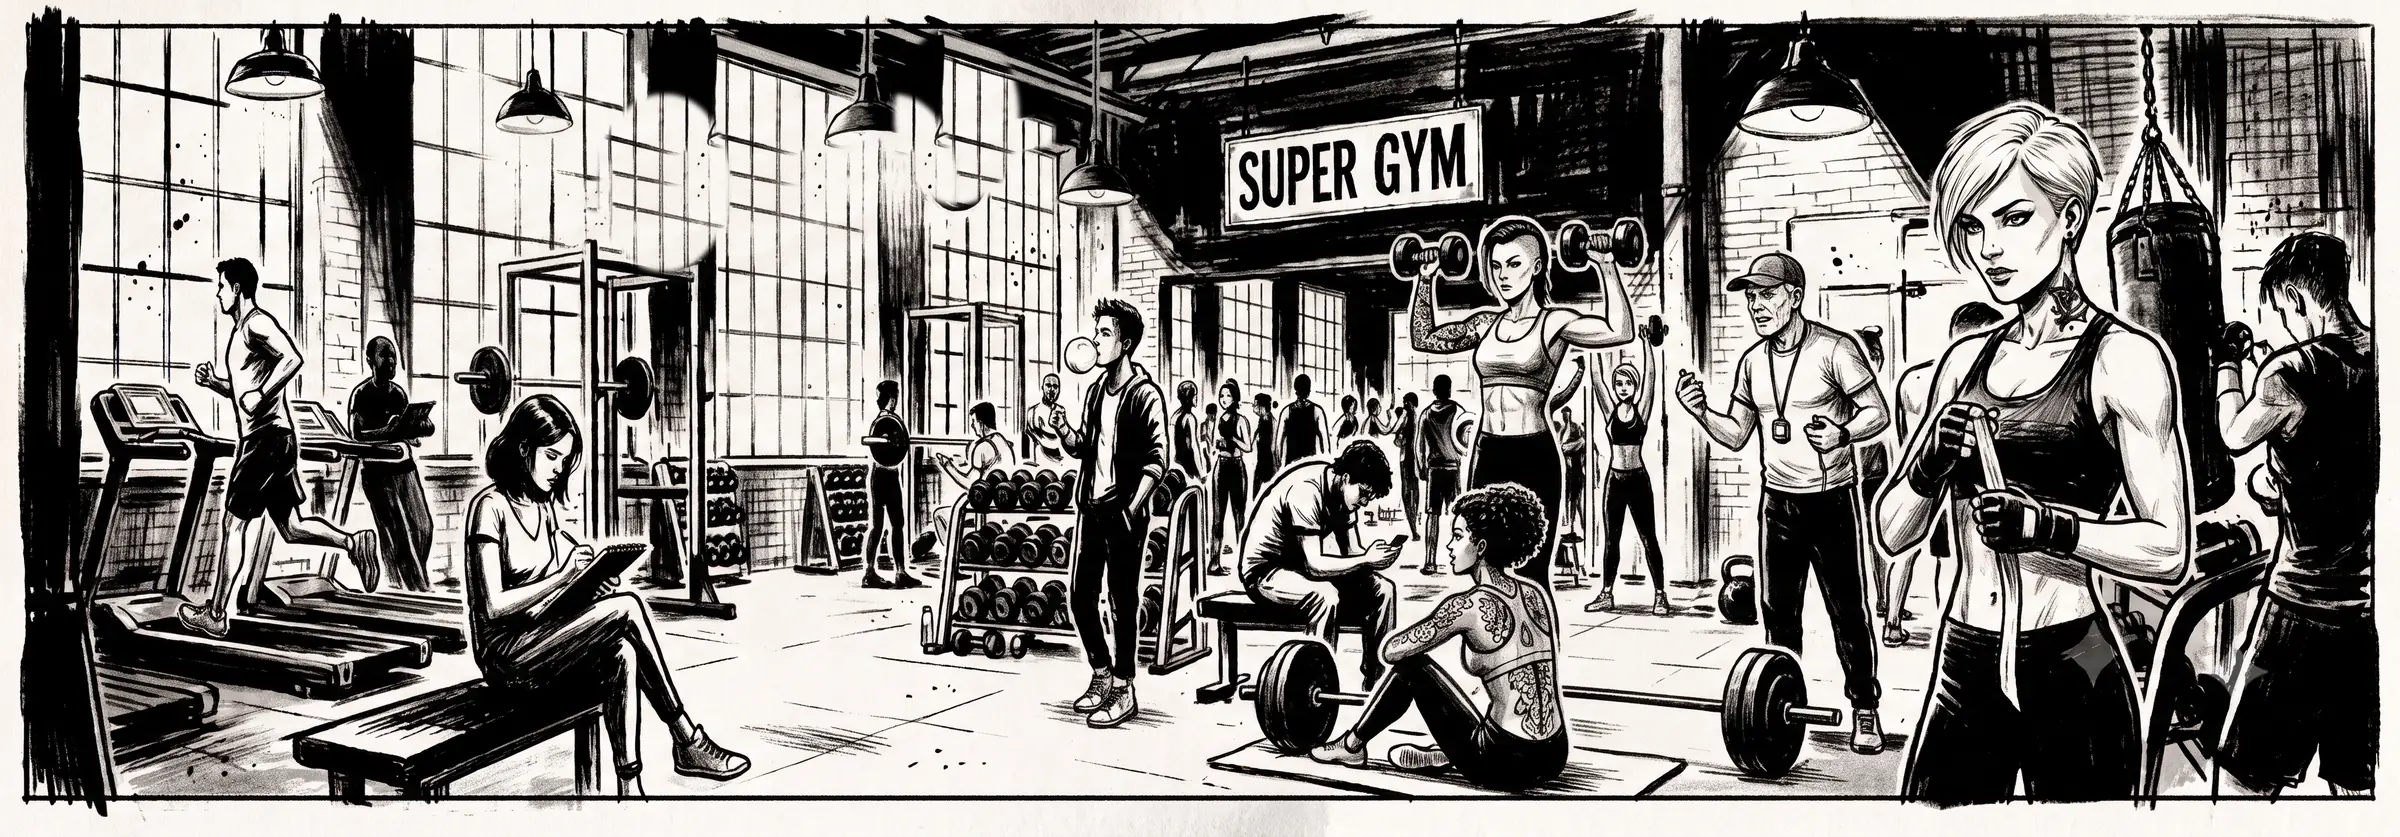
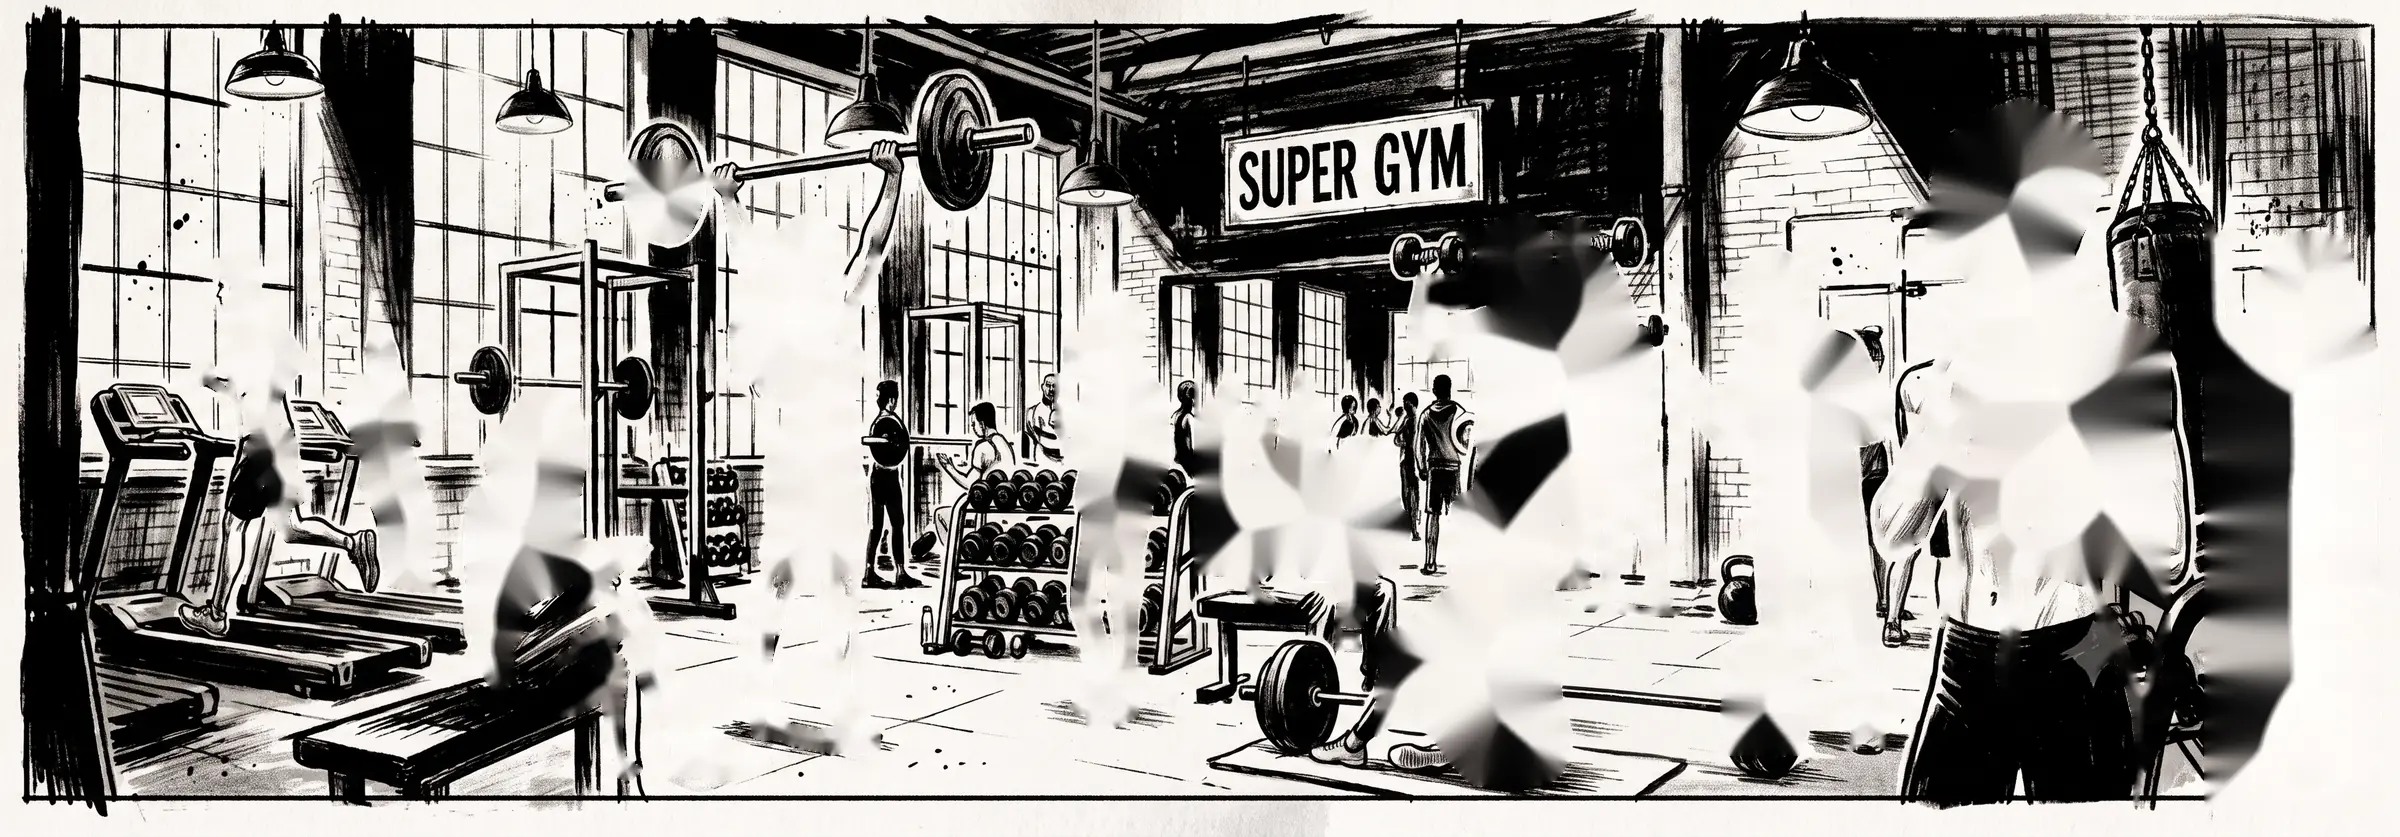
feat(dashboard): cảnh gym motion comic, 13 nhân vật cử động riêng; bỏ hạt bụi
- Tách từng nhân vật trong tranh gym thành lớp riêng (rembg) kèm viền nền
  ~10px, vá chỗ trống trên ảnh nền; dùng lại tranh gốc có cô gái váy đỏ nên
  không còn vết vá thanh tạ lơ lửng.
- Mỗi người một cử động trong vòng 8 giây: chạy bộ nhún, nâng tạ (hạ gối rồi
  đẩy), tập vai, đứng đung đưa, cúi xem điện thoại, nói chuyện (HLV, cô gái tóc
  xoăn), phác họa, đấm bao cát, thở, đám đông phía sau nhún nhẹ.
- Bỏ bụi phấn, quầng đèn và bong bóng kẹo vẽ thêm; bỏ 2 lớp tư thế cũ và các
  token --comic-lifter-*, --comic-gum-*, --comic-dust-*.
- Nút tạm dừng, chế độ nhẹ và giảm chuyển động vẫn dừng mọi lớp.

Claude-Session: https://claude.ai/code/session_01BEkzRAmJrhCBxdxCSw4XCL

diff --git a/src/main/webapp/css/dashboard-comic.css b/src/main/webapp/css/dashboard-comic.css
@@ -113,8 +113,7 @@ html body.dock .pt-board__hero .wx-card__temp { color: var(--comic-ink); -webkit
 
 /* =====================================================================
    Tranh comic raster (15/10/2026): ảnh mực đen trắng do nhóm tạo bằng Gemini, ghép bằng script.
-   Khối gym: ảnh nền + 2 tư thế người nâng tạ (đổi tư thế kiểu limited animation), đèn chập chờn,
-   bong bóng kẹo, bụi phấn. Khối thời tiết: thành phố trong bóng đầu người, mỗi thời tiết một tranh.
+   Khối gym: ảnh nền + 13 lớp nhân vật tách riêng, mỗi người một cử động nhẹ (motion comic). Khối thời tiết: thành phố trong bóng đầu người, mỗi thời tiết một tranh.
    Tạm dừng/ngủ dùng chung quy tắc .comic-scene--sleeping ở trên; reduced motion tắt hết.
    ===================================================================== */
 .comic-photo {
@@ -129,83 +128,48 @@ html body.dock .pt-board__hero .wx-card__temp { color: var(--comic-ink); -webkit
 }
 .comic-photo__plate { position: absolute; inset: 0; width: 100%; height: 100%; display: block; }
 .pt-board__hero .wx-gym { background: var(--comic-paper-warm); }
-.comic-lifter { position: absolute; height: auto; display: block; }
-.comic-lifter--rack { left: var(--comic-lifter-rack-left); top: var(--comic-lifter-rack-top); width: var(--comic-lifter-rack-width); opacity: 0; }
-.comic-lifter--up { left: var(--comic-lifter-up-left); top: var(--comic-lifter-up-top); width: var(--comic-lifter-up-width); }
-.comic-lifter--up { animation: comic-pose-up var(--comic-cycle) linear infinite; }
-.comic-lifter--rack { animation: comic-pose-rack var(--comic-cycle) linear infinite; }
-.comic-lamp {
-  position: absolute;
-  width: 12%;
-  aspect-ratio: 1 / 1.3;
-  transform: translateX(-50%);
-  background: radial-gradient(ellipse 50% 60% at 50% 12%, rgba(255, 248, 226, 0.5), transparent 70%);
-  mix-blend-mode: screen;
-  pointer-events: none;
-  animation: comic-lamp var(--comic-cycle) steps(1, end) infinite;
+/* Mỗi nhân vật là một lớp (vị trí % theo ảnh nền 2400×837, sinh từ script tách lớp). */
+.comic-p { position: absolute; height: auto; display: block; transform-origin: 50% 100%; will-change: transform; }
+.comic-p--crowd { left: 49.25%; top: 43.011%; width: 10.042%; }
+.comic-p--tablet { left: 13.917%; top: 38.59%; width: 4.833%; }
+.comic-p--runner { left: 7.583%; top: 29.152%; width: 5.708%; }
+.comic-p--minor { left: 65.917%; top: 40.263%; width: 4.667%; }
+.comic-p--sidecut { left: 58.167%; top: 24.134%; width: 11.542%; }
+.comic-p--lifter { left: 25.042%; top: 17.563%; width: 12.167%; }
+.comic-p--bubble { left: 43.417%; top: 33.931%; width: 5.833%; }
+.comic-p--phone { left: 51.042%; top: 50.896%; width: 8.25%; }
+.comic-p--coach { left: 69.25%; top: 28.315%; width: 10.083%; }
+.comic-p--curly { left: 56.75%; top: 55.914%; width: 9.167%; }
+.comic-p--sketch { left: 18.833%; top: 45.4%; width: 13.0%; }
+.comic-p--boxer { left: 91.333%; top: 25.329%; width: 8.417%; }
+.comic-p--platinum { left: 77.625%; top: 10.394%; width: 13.333%; }
+.comic-move--run { animation: comic-run-bob calc(var(--comic-cycle) / 16) ease-in-out infinite; }
+.comic-move--lift { animation: comic-lift var(--comic-cycle) ease-in-out infinite; }
+.comic-move--press { animation: comic-press calc(var(--comic-cycle) / 2) ease-in-out infinite; }
+.comic-p--minor { animation-delay: -1.3s; }
+.comic-move--sway { animation: comic-sway calc(var(--comic-cycle) / 2) ease-in-out infinite; }
+.comic-p--tablet { animation-delay: -2s; }
+.comic-move--nod { transform-origin: 30% 100%; animation: comic-nod var(--comic-cycle) ease-in-out infinite; }
+.comic-move--talk { animation: comic-talk calc(var(--comic-cycle) / 4) ease-in-out infinite; }
+.comic-p--curly { animation-delay: -1s; animation-duration: calc(var(--comic-cycle) / 2.6); }
+.comic-move--sketch { transform-origin: 40% 100%; animation: comic-sketch-row calc(var(--comic-cycle) / 8) ease-in-out infinite; }
+.comic-move--punch { animation: comic-jab calc(var(--comic-cycle) / 4) ease-out infinite; }
+.comic-move--breathe { animation: comic-breathe-in calc(var(--comic-cycle) / 2) ease-in-out infinite; }
+.comic-move--crowd { animation: comic-crowd calc(var(--comic-cycle) / 2) ease-in-out infinite; }
+@keyframes comic-lift {
+  0%, 8%, 50%, 58%, 100% { transform: translateY(0); }
+  18%, 68% { transform: translateY(1.2%); }
+  30%, 80% { transform: translateY(-1%); }
 }
-.comic-lamp--a { left: 22.3%; top: 12%; }
-.comic-lamp--b { left: 36.1%; top: 13%; animation-delay: -2.7s; }
-.comic-lamp--c { left: 45.4%; top: 20%; animation-delay: -5.1s; }
-.comic-gum {
-  position: absolute;
-  left: var(--comic-gum-left);
-  top: var(--comic-gum-top);
-  width: var(--comic-gum-size);
-  aspect-ratio: 1;
-  border: var(--border-width-thick) solid var(--comic-ink);
-  border-radius: var(--radius-circle);
-  background: radial-gradient(circle at 35% 30%, var(--comic-paper) 0 30%, var(--comic-wash) 75%);
-  transform-origin: 85% 55%;
-  animation: comic-gum var(--comic-cycle) ease-in-out infinite;
-}
-.comic-dust {
-  position: absolute;
-  inset: 0;
-  pointer-events: none;
-  opacity: 0.55;
-  background-image:
-    radial-gradient(circle, rgba(250, 246, 236, 0.9) 0 1px, transparent 1.6px),
-    radial-gradient(circle, rgba(250, 246, 236, 0.7) 0 1px, transparent 1.4px);
-  background-size: 140px 90px, 210px 130px;
-  background-position: 0 0, 60px 40px;
-  mix-blend-mode: screen;
-  animation: comic-dust var(--comic-dust-duration) linear infinite;
-}
-@keyframes comic-pose-up {
-  0%, 14.9% { opacity: 0; }
-  15% { opacity: 1; transform: translateY(1.5%); }
-  18%, 37% { opacity: 1; transform: none; }
-  37.1%, 64.9% { opacity: 0; }
-  65% { opacity: 1; transform: translateY(1.5%); }
-  68%, 87% { opacity: 1; transform: none; }
-  87.1%, 100% { opacity: 0; }
-}
-@keyframes comic-pose-rack {
-  0%, 14.9% { opacity: 1; transform: none; }
-  15%, 37% { opacity: 0; }
-  37.1% { opacity: 1; transform: translateY(-1%); }
-  40%, 64.9% { opacity: 1; transform: none; }
-  65%, 87% { opacity: 0; }
-  87.1% { opacity: 1; transform: translateY(-1%); }
-  90%, 100% { opacity: 1; transform: none; }
-}
-@keyframes comic-lamp {
-  0%, 46%, 50%, 100% { opacity: 1; }
-  47%, 49% { opacity: 0.35; }
-}
-@keyframes comic-gum {
-  0%, 10% { transform: scale(1); opacity: 1; }
-  45% { transform: scale(1.7); opacity: 1; }
-  52% { transform: scale(1.9); opacity: 1; }
-  53%, 60% { transform: scale(0.4); opacity: 0; }
-  61% { transform: scale(0.6); opacity: 1; }
-  100% { transform: scale(1); opacity: 1; }
-}
-@keyframes comic-dust {
-  from { background-position: 0 0, 60px 40px; }
-  to { background-position: 140px -90px, -150px -90px; }
-}
+@keyframes comic-press { 0%, 100% { transform: translateY(0); } 45% { transform: translateY(-1.2%) scaleY(1.008); } }
+@keyframes comic-sway { 0%, 100% { transform: rotate(-0.7deg); } 50% { transform: rotate(0.7deg); } }
+@keyframes comic-nod { 0%, 30%, 60%, 100% { transform: rotate(0); } 40%, 50% { transform: rotate(1.4deg); } 75% { transform: rotate(0.6deg); } }
+@keyframes comic-talk { 0%, 100% { transform: rotate(-0.6deg) translateX(0); } 30% { transform: rotate(0.5deg) translateX(0.6%); } 60% { transform: rotate(-0.2deg) translateX(-0.4%); } }
+@keyframes comic-sketch-row { 0%, 100% { transform: rotate(0); } 50% { transform: rotate(0.6deg); } }
+@keyframes comic-jab { 0%, 60%, 100% { transform: translateX(0); } 15% { transform: translateX(-2.2%) rotate(-0.8deg); } 30% { transform: translateX(0.6%); } }
+@keyframes comic-breathe-in { 0%, 100% { transform: scale(1); } 50% { transform: scale(1.008) translateY(-0.4%); } }
+@keyframes comic-crowd { 0%, 100% { transform: translateY(0); } 50% { transform: translateY(-0.8%); } }
+@keyframes comic-run-bob { 0%, 100% { transform: translateY(0); } 50% { transform: translateY(-1.4%); } }
 
 /* Khối thời tiết: tranh phủ thẻ, đầu người nằm phải, chữ dữ liệu thật trên nền giấy bên trái. */
 .pt-board__hero .wx-card { background: var(--comic-paper-warm); }
@@ -225,7 +189,3 @@ html body.dock .pt-board__hero .wx-card__temp { color: var(--comic-ink); -webkit
 .pt-board__hero .wx-card__temp { font-family: var(--font-comic-hand); letter-spacing: 0; }
 .pt-board__hero .wx-card__place { font-size: var(--font-size-xl); text-transform: uppercase; }
 .pt-board__hero .wx-card__condition { font-size: var(--font-size-lg); }
-@media (prefers-reduced-motion: reduce) {
-  .comic-lifter--rack { opacity: 0; }
-  .comic-lifter--up { opacity: 1; }
-}

diff --git a/src/main/webapp/css/tokens.css b/src/main/webapp/css/tokens.css
@@ -1099,18 +1099,8 @@ body.home-cine {
   --comic-gym-mobile-height: 13rem;
   --comic-weather-height: 21rem;
   --comic-caption-plate: rgba(250, 250, 250, 0.96);
-  /* Tranh comic raster (15/10, Gemini theo brief nhóm): vị trí lớp người nâng tạ trên ảnh nền gym, tính từ script ghép ảnh. */
+  /* Tranh comic raster (15/10, Gemini theo brief nhóm): màu giấy, nhấn đỏ, font chữ viết tay cho chữ thời tiết. */
   --comic-paper-warm: #F8F3EA;
   --comic-red: #B3252B;
-  --comic-lifter-rack-left: 23.909%;
-  --comic-lifter-rack-top: 23.305%;
-  --comic-lifter-rack-width: 21.101%;
-  --comic-lifter-up-left: 26.068%;
-  --comic-lifter-up-top: 19.753%;
-  --comic-lifter-up-width: 17.861%;
-  --comic-gum-left: 44.27%;
-  --comic-gum-top: 40.3%;
-  --comic-gum-size: 1.5%;
-  --comic-dust-duration: 14s;
   --font-comic-hand: "Patrick Hand", "Comic Neue", "Segoe Print", cursive;
 }
